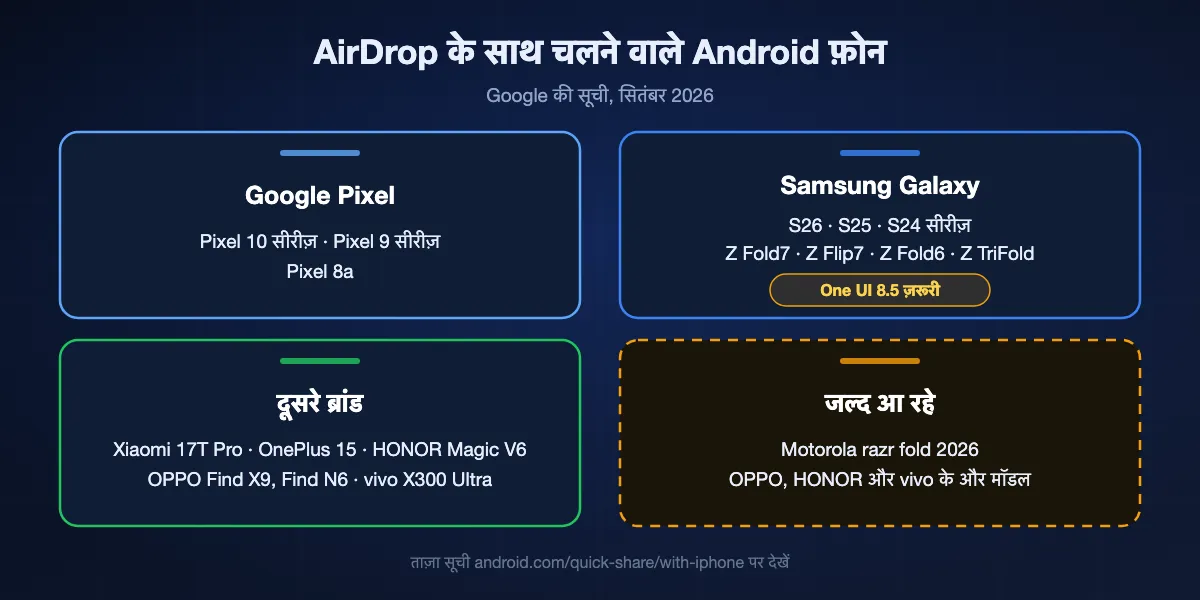
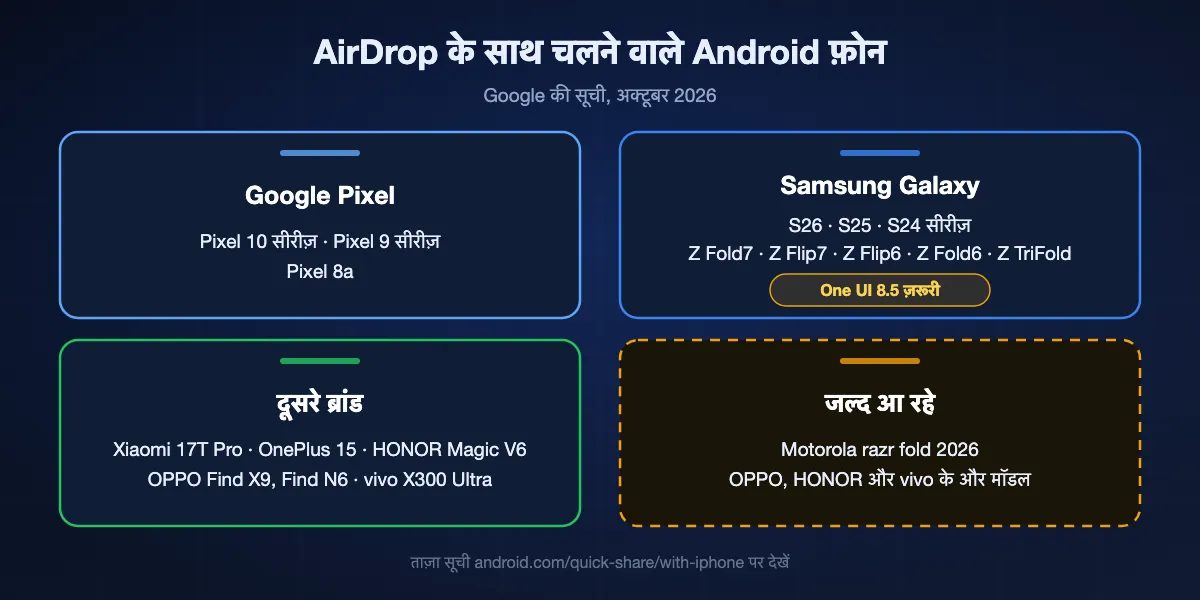
fix(seo): /airdrop-for-android phone list matches Google's page for October 2026
Google's Quick Share with iPhone page now lists the Galaxy Z Flip6. Added
to the Samsung paragraph, the FAQ answer, the image and its alt text in all
13 locales; the rest of the list was already current. Dated line and
dateModified move to 3 October 2026.

Changed region(s): [[0.5858, 0.39, 0.8942, 0.45], [0.4008, 0.12, 0.6167, 0.18]]

diff --git a/src/app/[locale]/(site)/airdrop-for-android/page.tsx b/src/app/[locale]/(site)/airdrop-for-android/page.tsx
@@ -31,7 +31,7 @@ import { guideLinks } from "@/components/site/guide-links";
 
 const SLUG = "/airdrop-for-android";
 const NS = "airdrop";
-const LAST_UPDATED = "2026-09-13";
+const LAST_UPDATED = "2026-10-03";
 
 const QUICK_ITEMS = ["0", "1", "2", "3", "4", "5"] as const;
 const MEANING_ITEMS = ["0", "1", "2"] as const;
